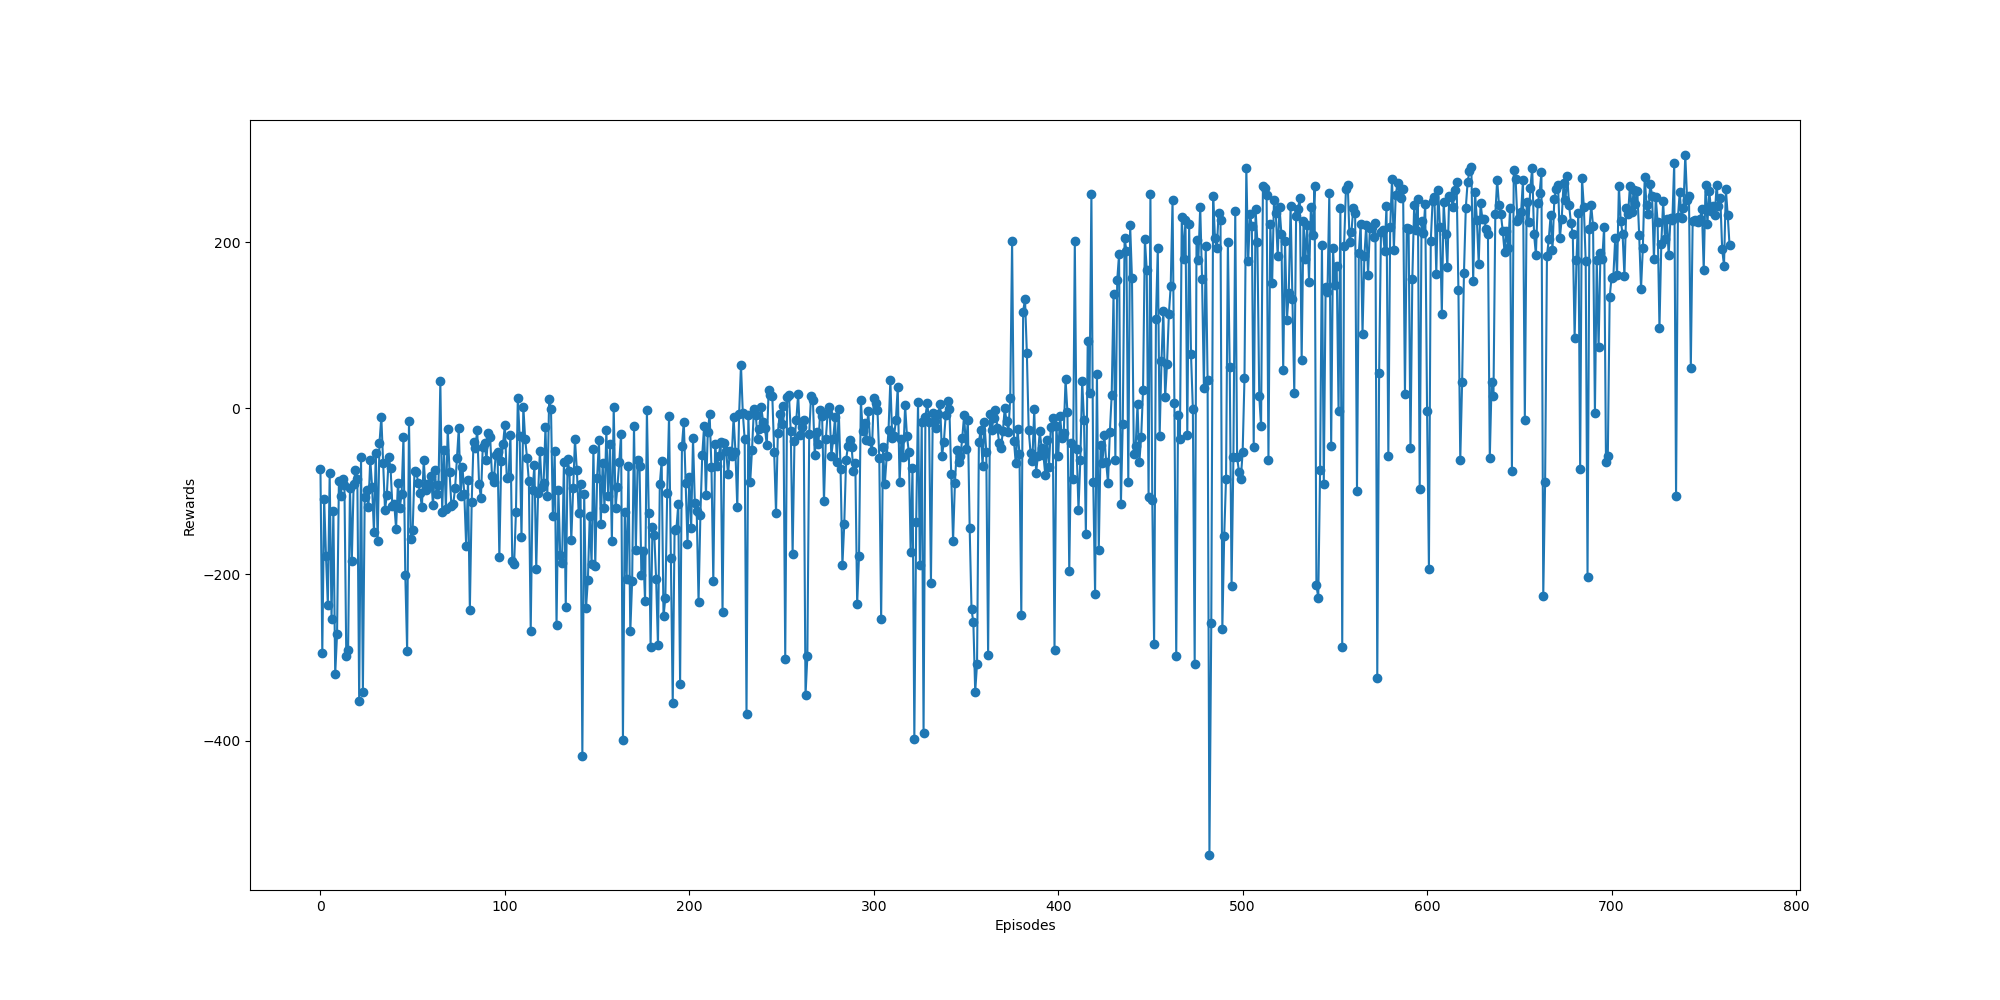
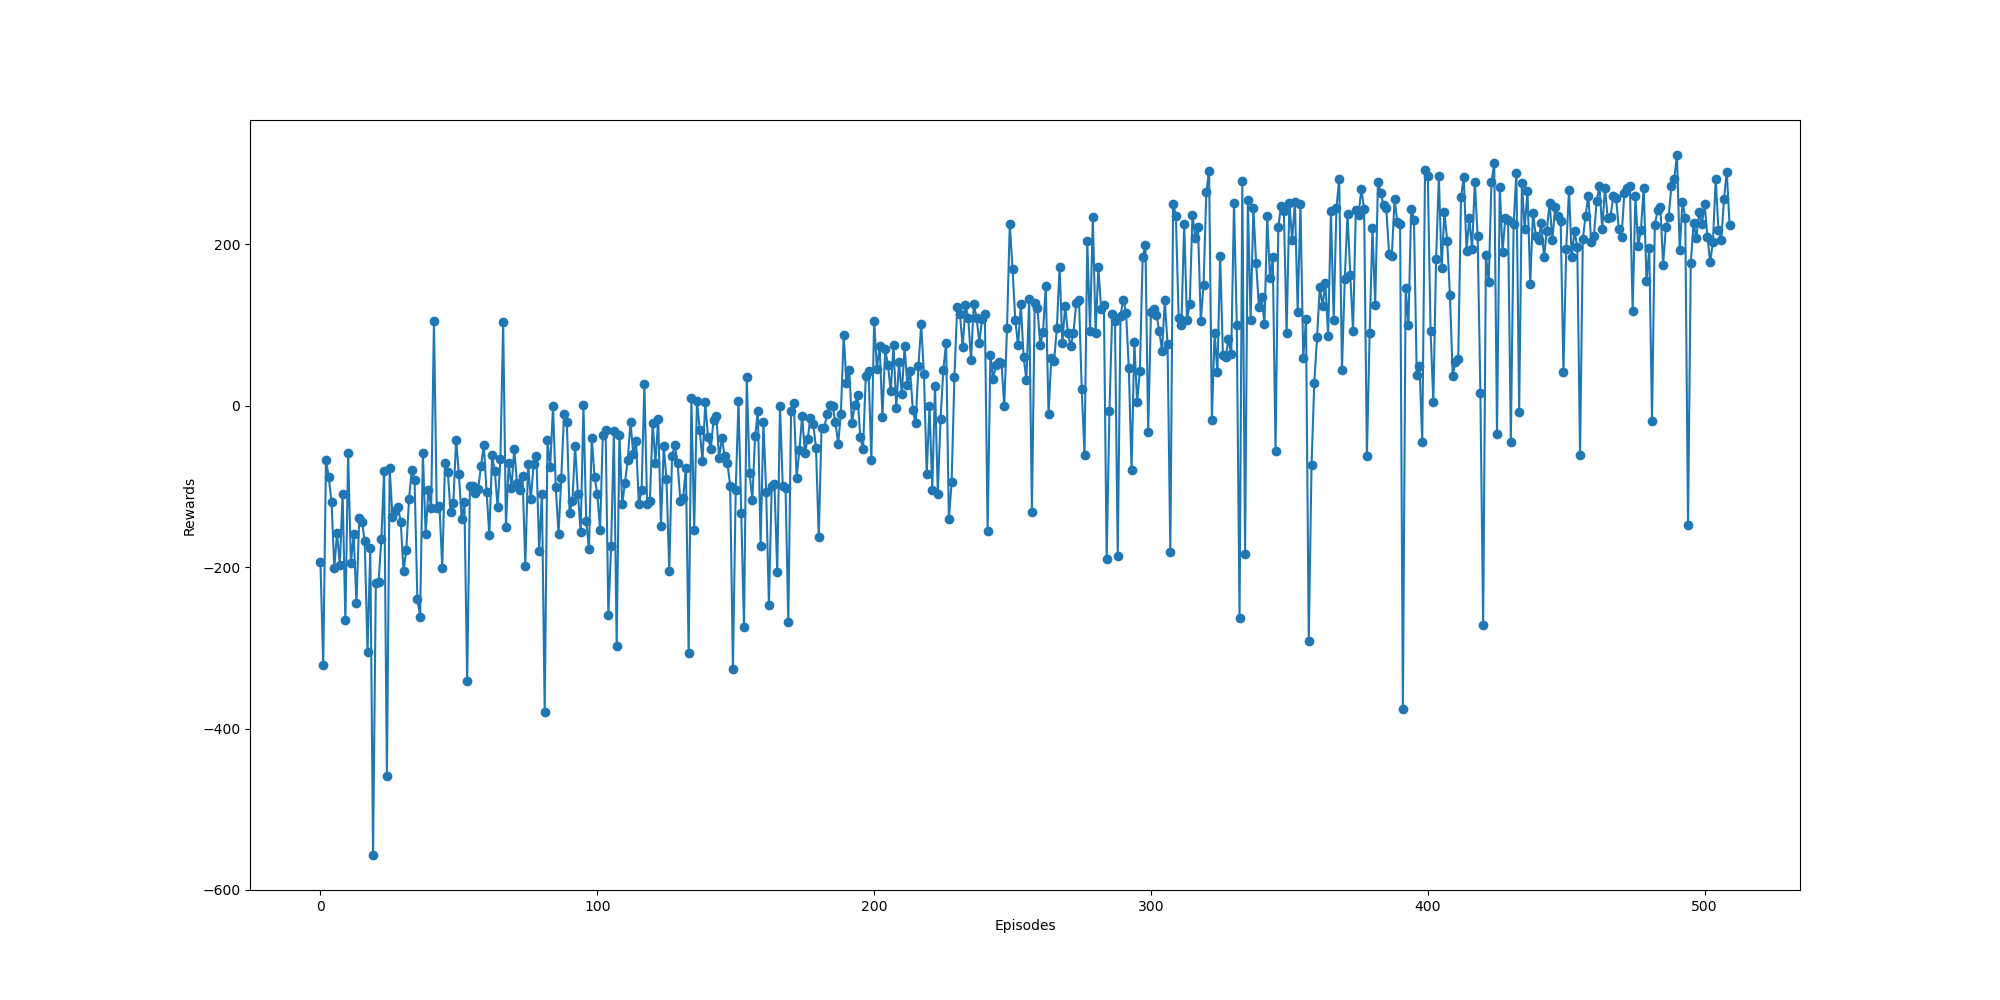
doubledqn

diff --git a/DoubleDqn.py b/DoubleDqn.py
@@ -1,0 +1,97 @@
+import torch.nn as nn
+import torch
+import torch.nn.functional as F
+from torch.nn import Sequential
+from collections import deque
+import numpy as np
+
+'''
+Param defs:
+env: gym env
+lr:  learning rate for gradient descent
+gamma: discount rate for future rewards in bellman function
+epsilon: exploration rate
+epsilon_decay: decay rate for exploration rate after each episode
+buffer_size: for experience replay...storing past information on states, actions, rewards, next_states, done
+'''
+
+class DoubleDQN(nn.Module):
+    def __init__(self, env, lr=1e-4, gamma=0.99, epsilon=1.0, epsilon_decay=0.995, buffer_size=500000):
+        super(DoubleDQN, self).__init__()
+        # input output dimensions
+        self.state_space_dim = env.observation_space.shape[0]
+        self.action_space_dim = env.action_space.n
+
+        # our state-action function estimator
+
+        model = Sequential(
+            nn.Linear(self.state_space_dim, 512),
+            nn.ReLU(),
+            nn.Linear(512, 256),
+            nn.ReLU(),
+            nn.Linear(256, self.action_space_dim)
+        )
+        self.local_net = model
+        self.target_net = model
+
+        self.lr = lr
+        self.gamma = gamma
+        self.epsilon = epsilon
+        self.epsilon_decay = epsilon_decay
+        self.env = env
+        self.buffer = deque(maxlen=buffer_size)
+
+        # updates the weights of the model after computing gradients
+        self.optimizer = torch.optim.Adam(self.local_net.parameters(), lr=self.lr)
+
+        self.copy = 5000  # Copy the local model weights into the target network every 5000 steps
+        self.step = 0
+
+        self.loss_fn = nn.MSELoss()  # defining our loss function to be the MSE loss
+
+    def copy_model(self):
+        # Copy local net weights into target net
+        self.target_net.load_state_dict(self.local_net.state_dict())
+
+    def insert(self, state, action, reward, next_state, done):
+        self.buffer.append((state, action, reward, next_state, done))
+
+    # Get a mini-batch to train the model
+    def sample_buffer(self, num_samples):
+        states, actions, rewards, next_states, dones = [], [], [], [], []
+        idx = np.random.choice(len(self.buffer), num_samples)
+        for i in idx:
+            elem = self.buffer[i]
+            state, action, reward, next_state, done = elem
+            states.append(np.array(state, copy=False))
+            actions.append(np.array(action, copy=False))
+            rewards.append(reward)
+            next_states.append(np.array(next_state, copy=False))
+            dones.append(done)
+        states = torch.as_tensor(np.array(states))
+        actions = torch.as_tensor(np.array(actions, dtype=np.int64))
+        rewards = torch.as_tensor(np.array(rewards, dtype=np.float32))
+        next_states = torch.as_tensor(np.array(next_states))
+        dones = torch.as_tensor(np.array(dones, dtype=np.float32))
+        return states, actions, rewards, next_states, dones
+
+    def get_action(self, state):
+        self.step += 1
+        if np.random.uniform() < self.epsilon:
+            return self.env.action_space.sample()
+        else:
+            return np.argmax(self.local_net(state).data.numpy())
+
+    def train_batch(self, states, actions, rewards, next_states, dones):
+        if self.step % self.copy == 0:
+            self.copy_model()
+        # Bellman equation for updates
+        targets = rewards + self.gamma * self.target_net(next_states).max(-1).values * (1.0 - dones)
+        preds = self.local_net(states)
+        action_masks = F.one_hot(actions, self.action_space_dim)
+        preds = (preds * action_masks).sum(dim=-1)
+        loss = self.loss_fn(preds, targets.detach())
+        self.optimizer.zero_grad()  # zero out the gradients for weights of model
+        loss.backward()  # compute the gradient of loss with respect to model parameters
+        self.optimizer.step()
+        return loss

diff --git a/VanillaDqn.py b/VanillaDqn.py
@@ -17,13 +17,11 @@ buffer_size: for experience replay...storing past information on states, actions
 
 
 class DQN(nn.Module):
-    def __init__(self, env, lr=1e-4, gamma=0.99, epsilon=1.0, epsilon_decay=0.995, buffer_size=500000, double_dqn=True):
+    def __init__(self, env, lr=1e-4, gamma=0.99, epsilon=1.0, epsilon_decay=0.995, buffer_size=500000):
         super(DQN, self).__init__()
         # input output dimensions
         self.state_space_dim = env.observation_space.shape[0]
         self.action_space_dim = env.action_space.n
-
-        self.double_dqn = double_dqn
         # our state-action function estimator
         self.model = Sequential(
             nn.Linear(self.state_space_dim, 512),
@@ -32,32 +30,15 @@ class DQN(nn.Module):
             nn.ReLU(),
             nn.Linear(256, self.action_space_dim)
         )
-        if self.double_dqn:
-            self.local_net = self.model
-            self.target_net = self.model
-
         self.lr = lr
         self.gamma = gamma
         self.epsilon = epsilon
         self.epsilon_decay = epsilon_decay
         self.env = env
         self.buffer = deque(maxlen=buffer_size)
-
-        if self.double_dqn:
-            self.optimizer = torch.optim.Adam(self.local_net.parameters(), lr=self.lr)
-        else:
-            self.optimizer = torch.optim.Adam(self.model.parameters(),
-                                              lr=self.lr)  # updates the weights of the model after computing gradients
-
-        # self.copy = 5000  # Copy the local model weights into the target network every 5000 steps
-        # self.step = 0
-
+        self.optimizer = torch.optim.Adam(self.model.parameters(),
+                                          lr=self.lr)  # updates the weights of the model after computing gradients
         self.loss_fn = nn.MSELoss()  # defining our loss function to be the MSE loss
-
-    # def copy_model(self):
-    #     # Copy local net weights into target net
-    #
-    #     self.target_net.load_state_dict(self.local_net.state_dict())
 
     def insert(self, state, action, reward, next_state, done):
         self.buffer.append((state, action, reward, next_state, done))
@@ -82,29 +63,19 @@ class DQN(nn.Module):
         return states, actions, rewards, next_states, dones
 
     def get_action(self, state):
-        # if self.double_dqn:
-        #     self.step += 1
         if np.random.uniform() < self.epsilon:
             return self.env.action_space.sample()
-        elif self.double_dqn:
-            return np.argmax(self.local_net(state).data.numpy())
         else:
             return np.argmax(self.model(state).data.numpy())
 
     def train_batch(self, states, actions, rewards, next_states, dones):
-        # if self.double_dq and self.step % self.copy == 0:
-        #     self.copy_model()
         # Bellman equation for updates
-        if self.double_dqn:
-            targets = rewards + self.gamma * self.target_net(next_states).max(-1).values * (1.0 - dones)
-            preds = self.local_net(states)
-        else:
-            targets = rewards + self.gamma * self.model(next_states).max(-1).values * (1.0 - dones)
-            preds = self.model(states)
+        targets = rewards + self.gamma * self.model(next_states).max(-1).values * (1.0 - dones)
+        preds = self.model(states)
         action_masks = F.one_hot(actions, self.action_space_dim)
         preds = (preds * action_masks).sum(dim=-1)
         loss = self.loss_fn(preds, targets.detach())
         self.optimizer.zero_grad()  # zero out the gradients for weights of model
-        loss.backward()  # compute the gradient of loss with respect to model paramenters
+        loss.backward()  # compute the gradient of loss with respect to model parameters
         self.optimizer.step()
         return loss

diff --git a/lunarlander1.py b/lunarlander1.py
@@ -1,5 +1,6 @@
 import gym
 from VanillaDqn import DQN
+from DoubleDqn import DoubleDQN
 import numpy as np
 import torch
 
@@ -16,7 +17,7 @@ counter = 0
 update_t = 5
 batch_size = 32
 lr = 1e-3
-network = DQN(env, lr=lr, gamma=gamma, epsilon=epsilon, buffer_size=buffer_size)
+network = DoubleDQN(env, lr=lr, gamma=gamma, epsilon=epsilon, buffer_size=buffer_size)
 reward_list_ep = []
 reward_last_100_eps = []
 for episode in range(episodes + 1):
@@ -62,8 +63,18 @@ fig = plt.figure(figsize=(20, 10))
 plt.scatter([i for i in range(len(reward_list_ep))], reward_list_ep)
 plt.xlabel("Episodes")
 plt.ylabel("Rewards")
-plt.savefig('results/doubleDQNscatter.png')
+plt.savefig('results/doubleDQNscatter2.png')
 plt.plot([i for i in range(len(reward_list_ep))], reward_list_ep)
 plt.xlabel("Episodes")
 plt.ylabel("Rewards")
-plt.savefig('results/doubleDQNplot.png')
+plt.savefig('results/doubleDQNplot2.png')
+
+# fig = plt.figure(figsize=(20, 10))
+# plt.scatter([i for i in range(len(reward_list_ep))], reward_list_ep)
+# plt.xlabel("Episodes")
+# plt.ylabel("Rewards")
+# plt.savefig('results/vanillaDQNscatter.png')
+# plt.plot([i for i in range(len(reward_list_ep))], reward_list_ep)
+# plt.xlabel("Episodes")
+# plt.ylabel("Rewards")
+# plt.savefig('results/vanillaDQNplot.png')
